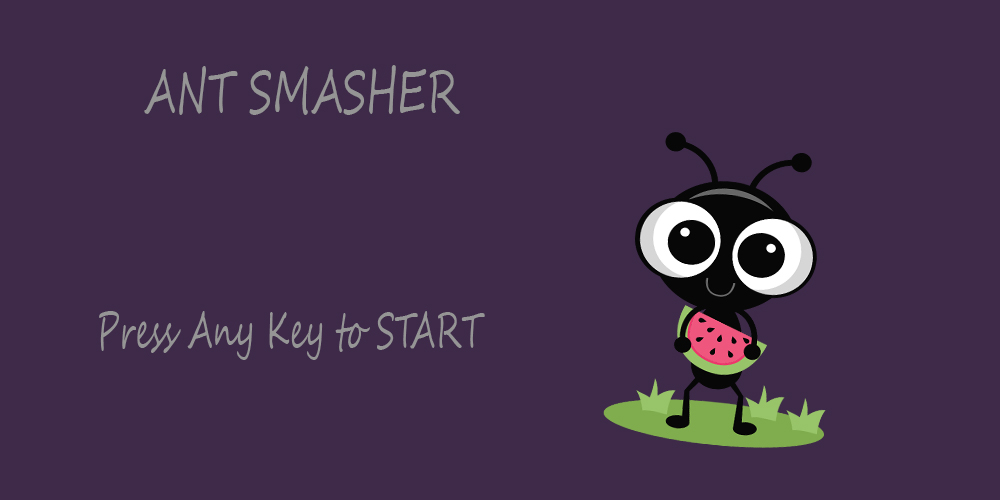
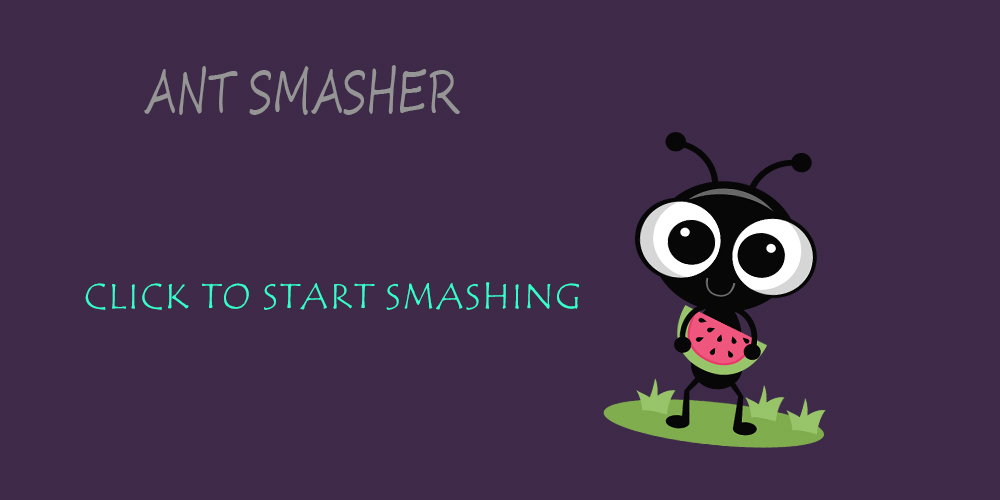
added start screen

Changed region(s): [[0.093, 0.57, 0.589, 0.72]]

diff --git a/ast5/script.js b/ast5/script.js
@@ -15,17 +15,18 @@
 // 	game();
 // }
 
+var btn = document.getElementById('StartBtn');
 
 function game(){
 
-
+btn.style.display = 'none';
 var canvas = document.getElementsByTagName('canvas')[0];
 var scoreText = document.getElementsByTagName('P')[0];	
 var c = canvas.getContext('2d');
 var width = canvas.width;
 var height = canvas.height;
 var speed = 5;
-var numberOfCircles = 20 ;
+var numberOfCircles = 5 ;
 var maxRadius = 15;
 var minRadius = 10;
 var circleArray = [];
@@ -209,6 +210,6 @@ animate();
 
 };
 
-window.onload = function() {
-game();
-};
+// window.onload = function() {
+// game();
+// };

diff --git a/ast5/index.html b/ast5/index.html
@@ -3,6 +3,10 @@
 <head>
 	<title></title>
 	<style type="text/css">
+		*{
+			margin:0px;
+			padding: 0px;
+		}
 		canvas {
 			/*margin-left:200px;*/
 			/*margin-top: 25px;	*/
@@ -34,7 +38,20 @@
 			margin: 0px;
 		}
 
+		#StartBtn{
+			position:absolute;	
+			width: 1000px;
+			height: 500px;
+			background-image: url(antStartscreen.jpg);
+			background-repeat: no-repeat;
+			border: 2px solid black;
+			z-index: 1;
+
+		}
+
 	</style>
+
+	<button id="StartBtn" type="button" onclick="game()"></button>
 </head>
 <body>
 <!-- <div class="image">
